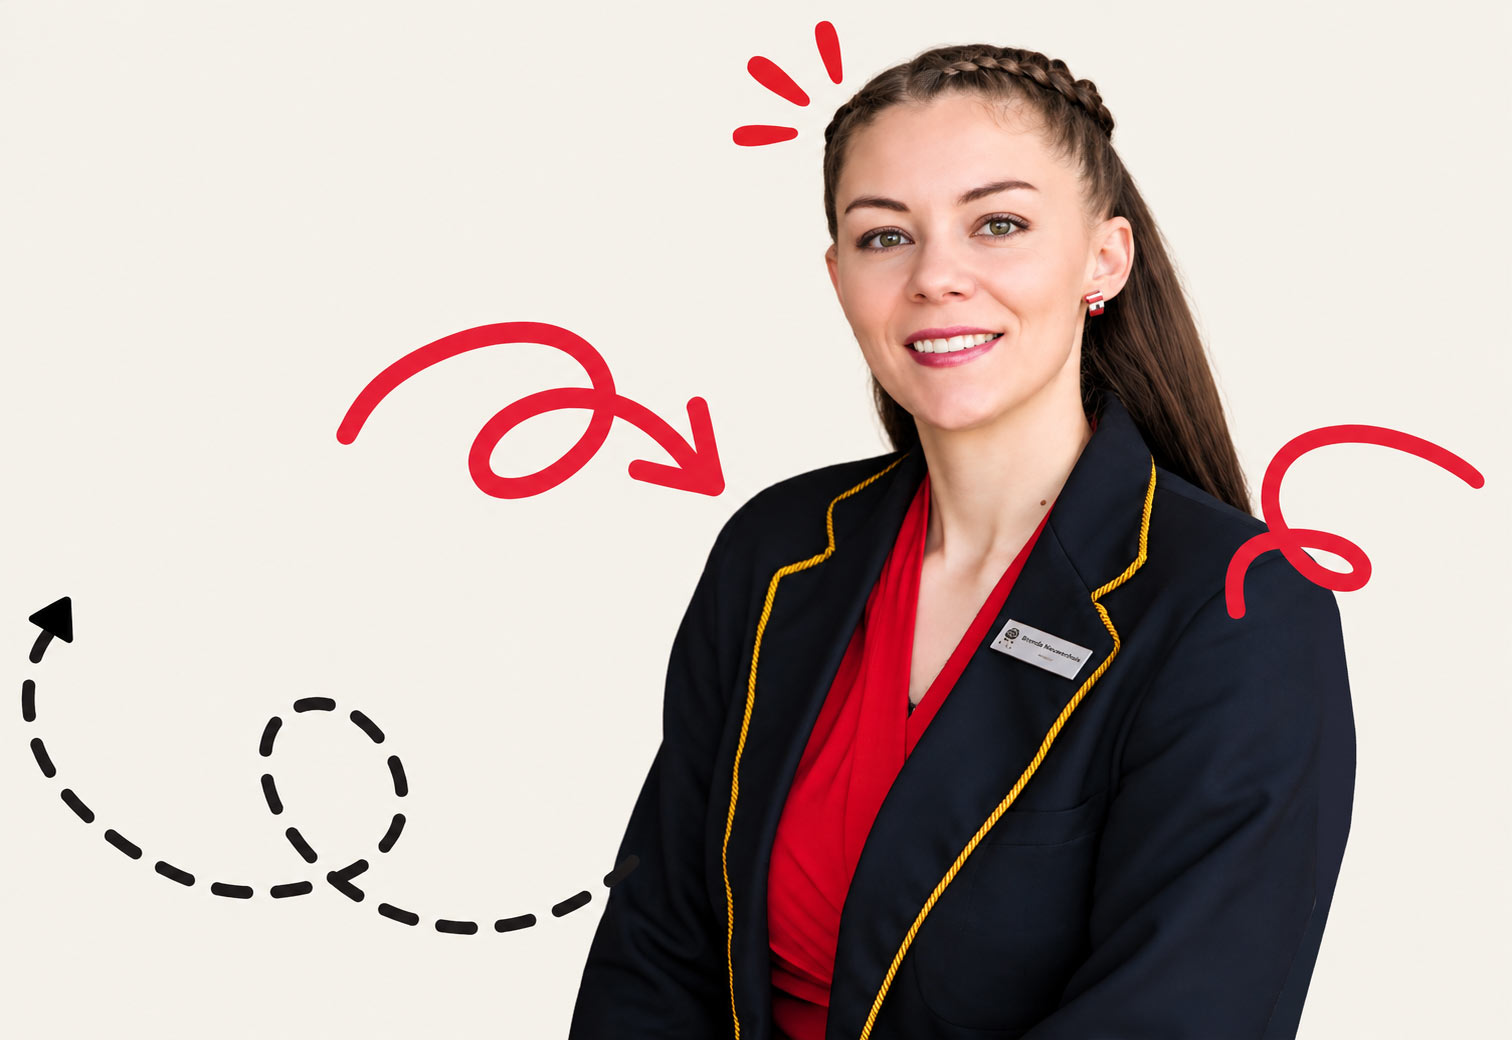
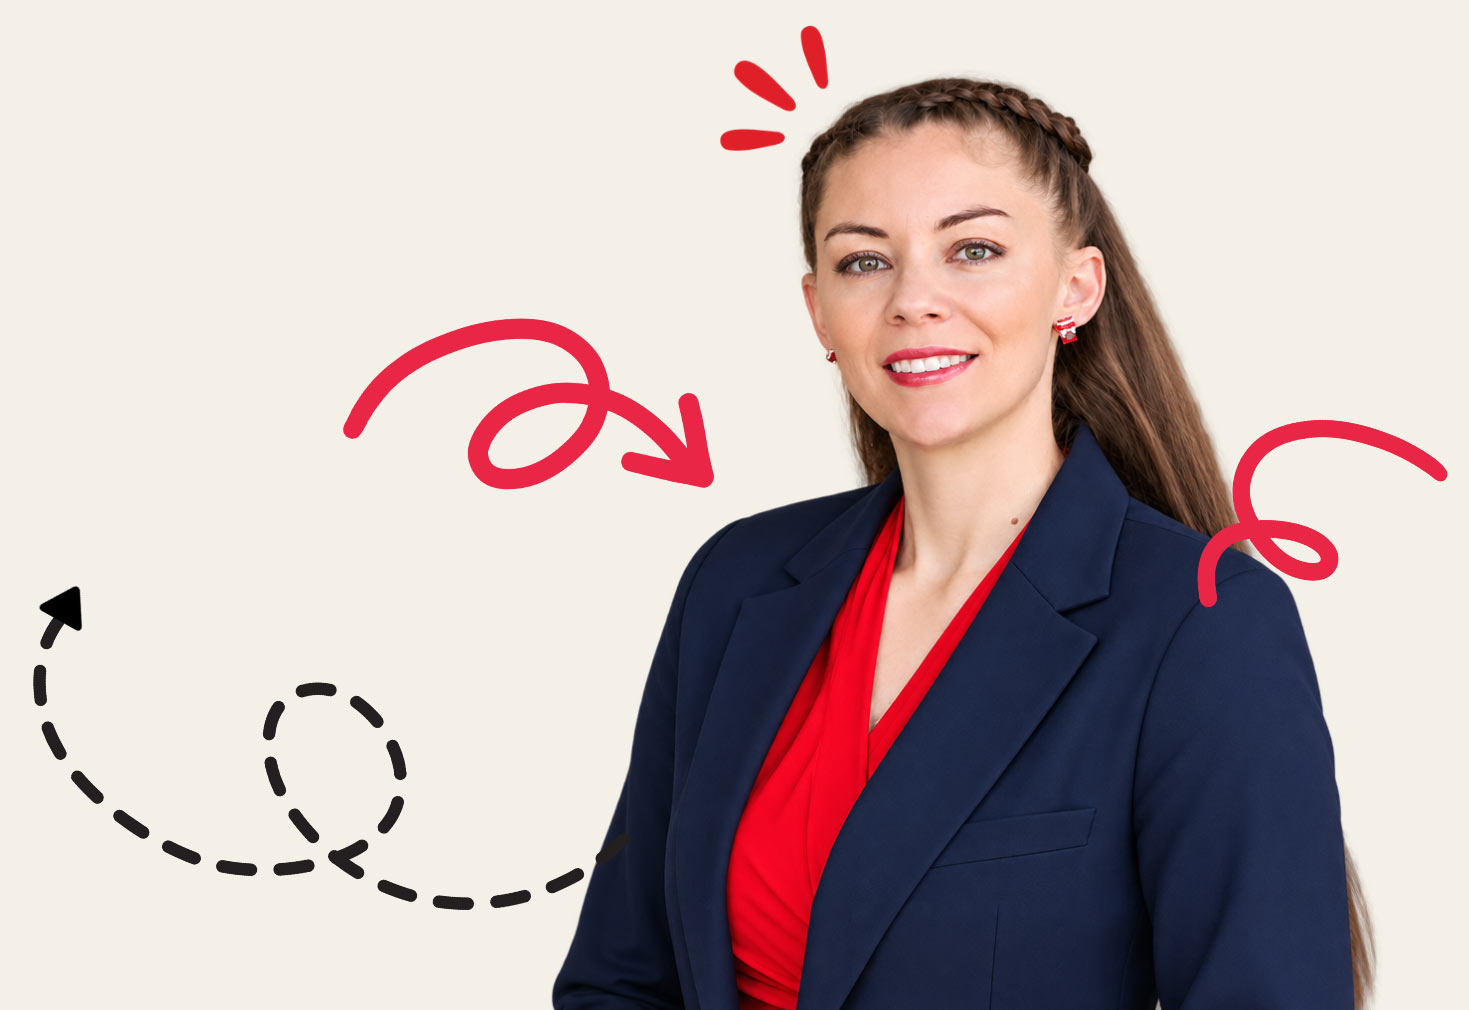
Update home hero image

Changed region(s): [[0.0, 0.0, 0.9803, 1.0], [0.2451, 0.7059, 0.2757, 0.8287], [0.9803, 0.4604, 1.0, 0.4911]]

diff --git a/index.html b/index.html
@@ -74,8 +74,8 @@
           </div>
         </div>
         <div class="hero__media">
-          <img src="assets/img/hero-home.jpg?v=2" alt="Glimlaggende onderwyser in skoolbaadjie" width="1512"
-            height="1040" fetchpriority="high">
+          <img src="assets/img/hero-home.jpg?v=3" alt="Glimlaggende onderwyser in skoolbaadjie" width="1469"
+            height="1010" fetchpriority="high">
         </div>
       </div>
     </section>
